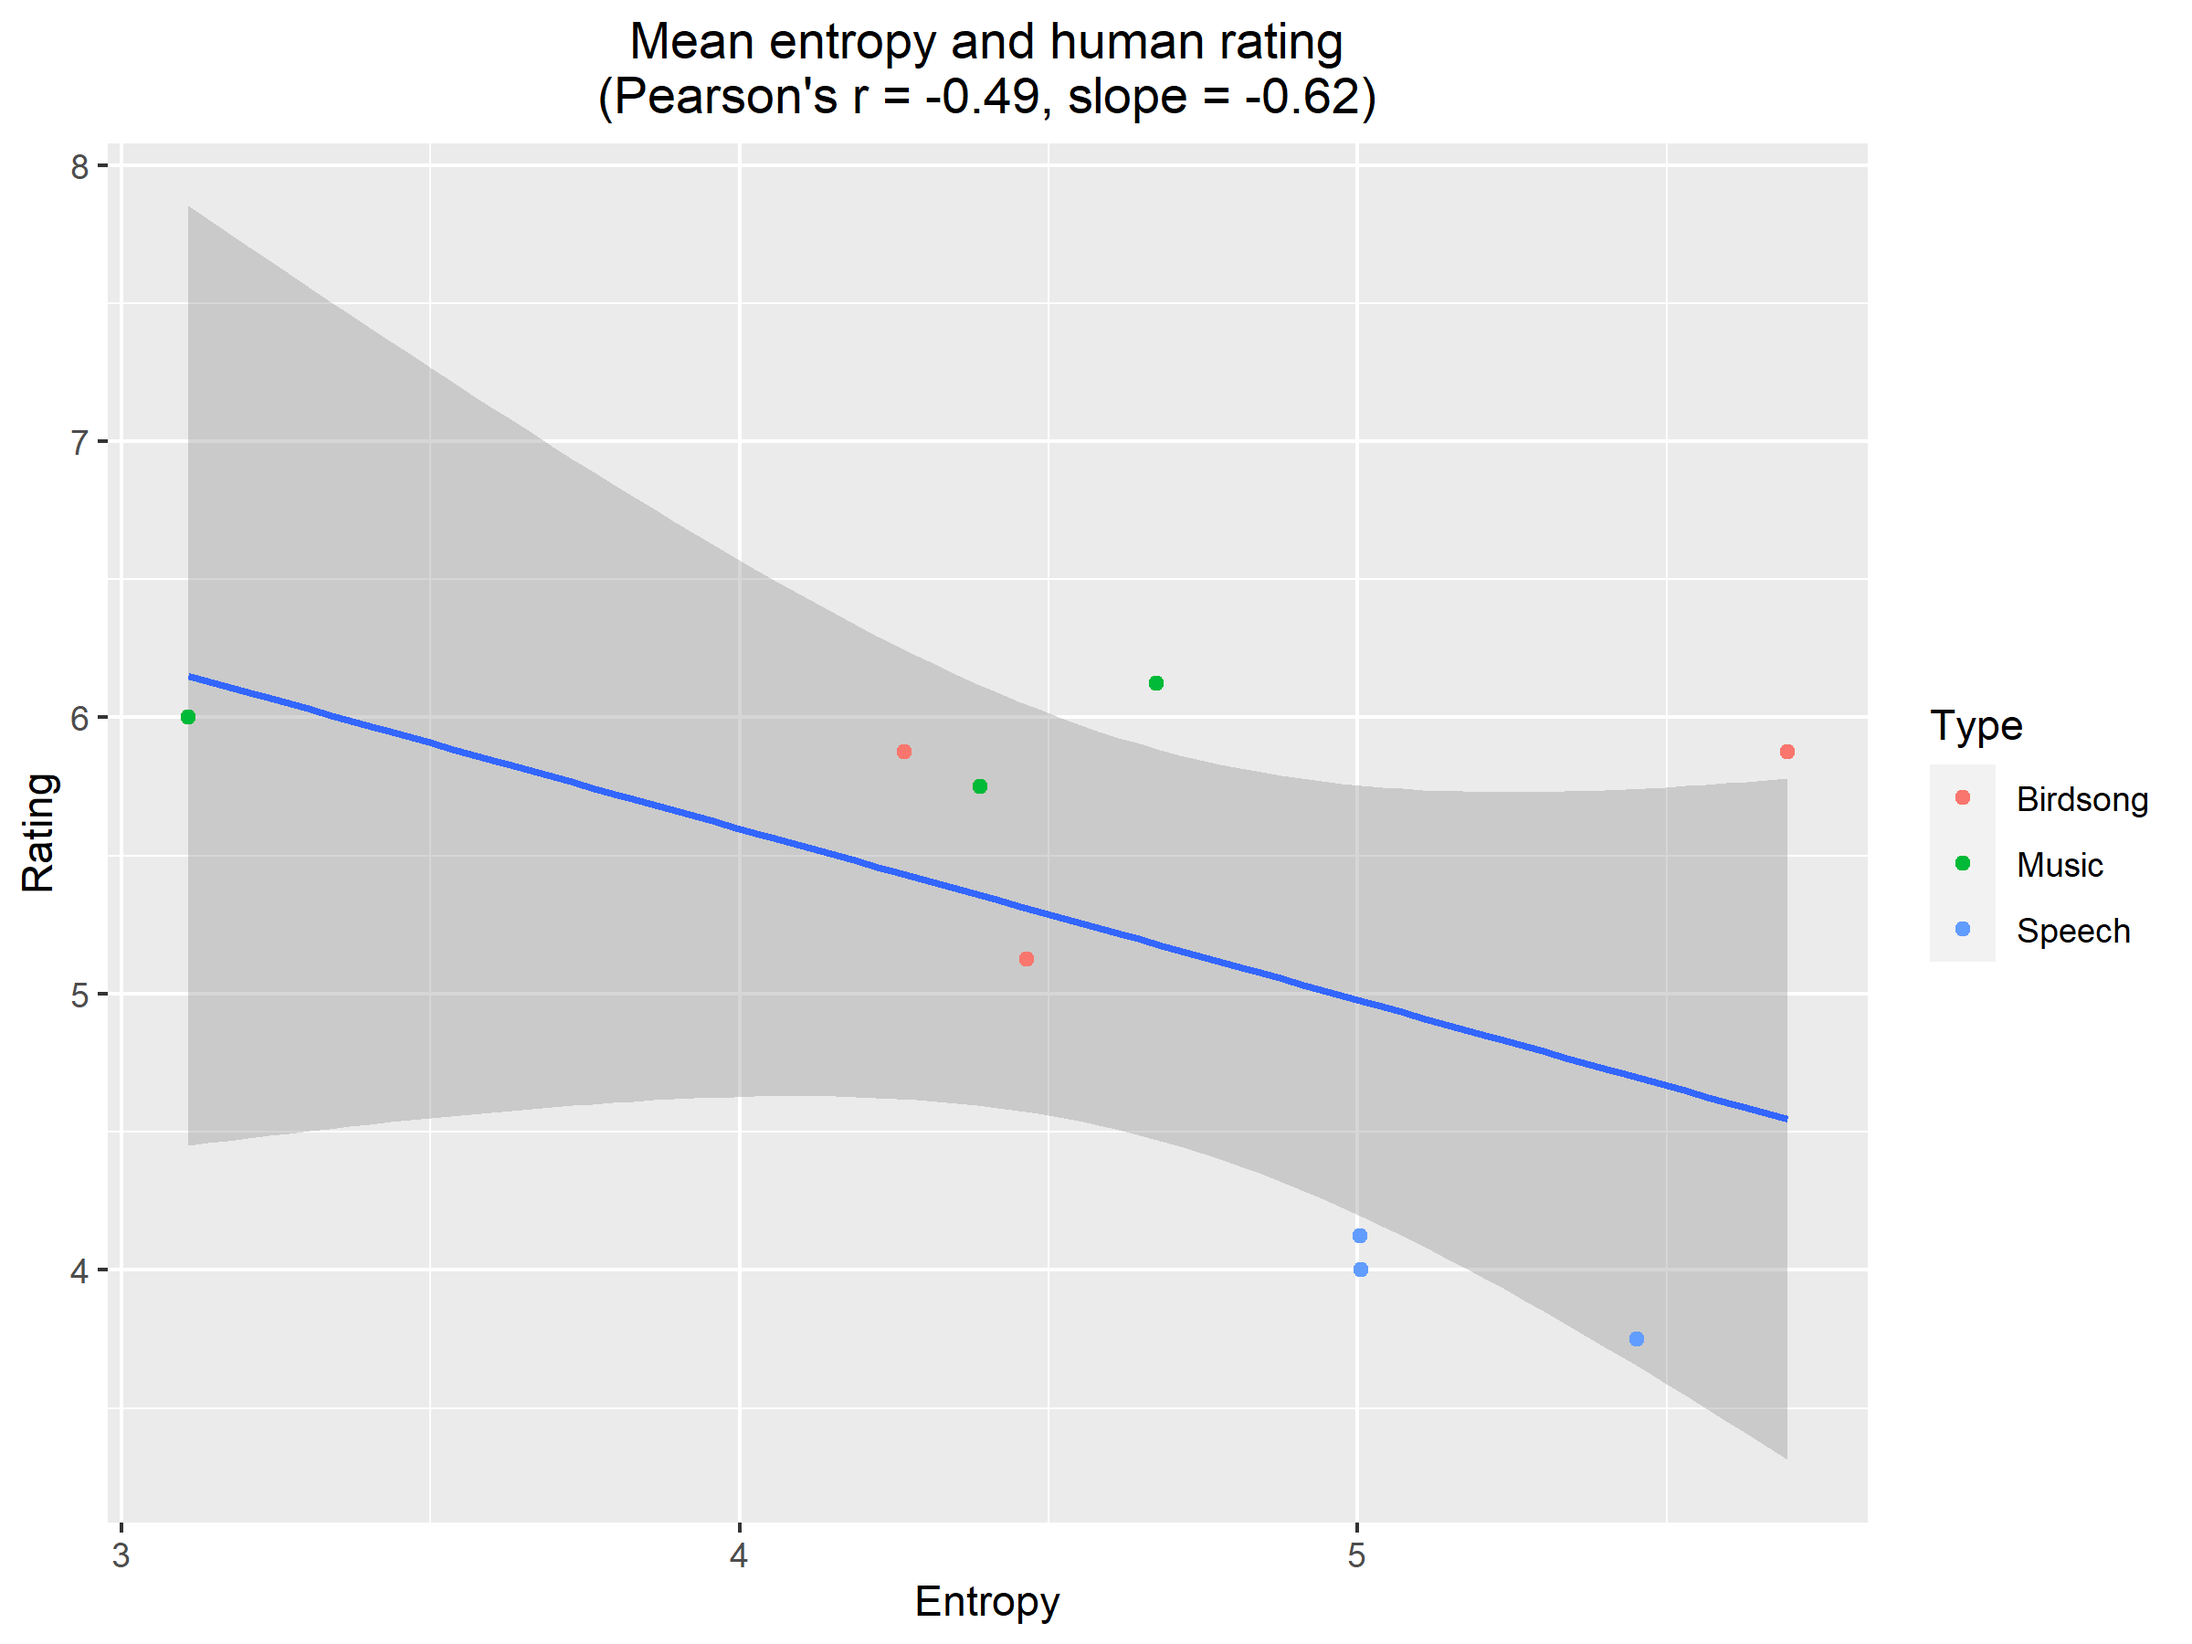
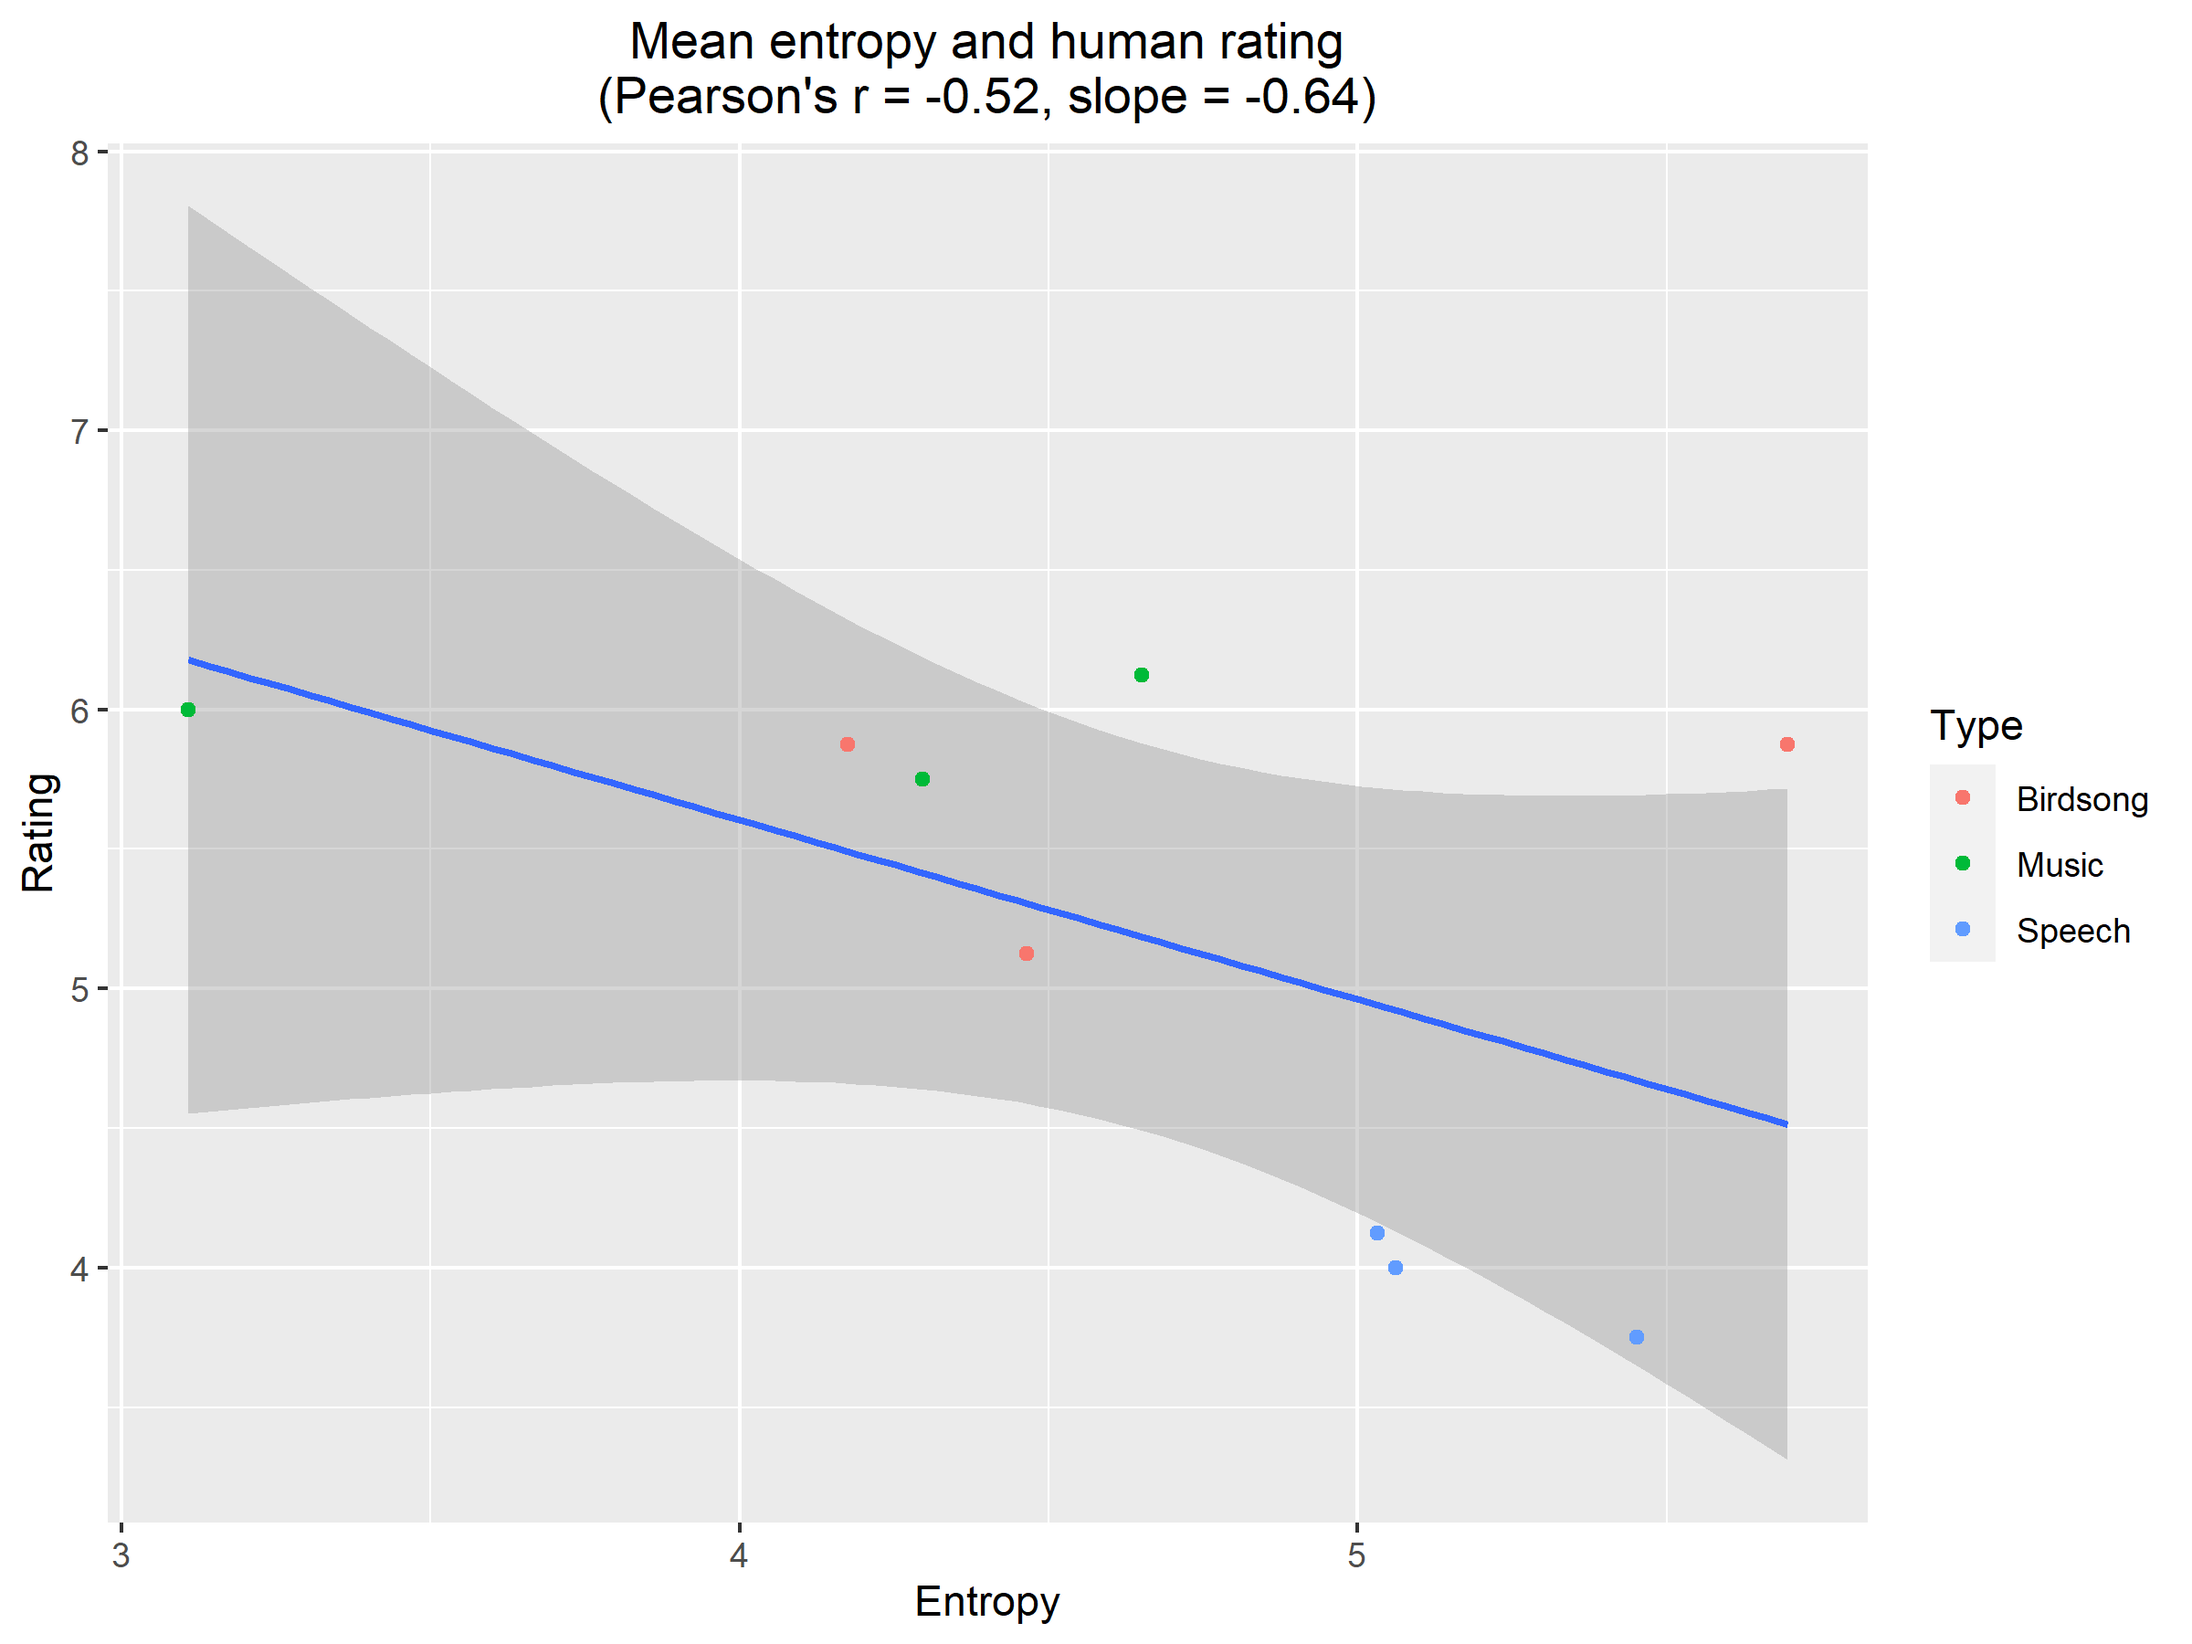
Add existing file

diff --git a/analysis_pitchdiscreteness.m b/analysis_pitchdiscreteness.m
@@ -18,6 +18,7 @@ function analysis_pitchdiscreteness
 
     %%
     addpath('./lib/');
+    K = 8;
 
     if ~exist(outputdir, 'dir')
         mkdir(outputdir);
@@ -56,9 +57,9 @@ function analysis_pitchdiscreteness
                 if isempty(idx_ed_j)
                     idx_ed_j = numel(f0_cent_j);
                 end
-
-                if (idx_ed_j - idx_st_j + 1) >= 8
-                    H(end + 1) = klentropy(f0_cent_j(idx_st_j:idx_ed_j), 8);
+                
+                if (idx_ed_j - idx_st_j + 1) > K
+                    H(end + 1) = klentropy(f0_cent_j(idx_st_j:idx_ed_j), K);
                 end
 
                 idx_st_j = find(~isinf(f0_cent_j(idx_ed_j + 1:end)), 1, 'first') + idx_ed_j;
